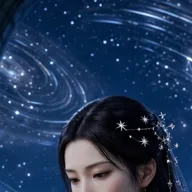
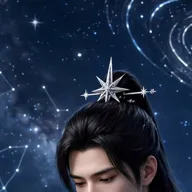
V6.1 星罗改男性版定妆候选 v2（v1 女性版作废）：立绘/头像/海报占位同步替换，规格注明男性

diff --git a/docs/v6.1-guides.md b/docs/v6.1-guides.md
@@ -12,7 +12,7 @@ V6.1 是一次引路人体系的整体革新：六位引路人各有明确专长
 | 夕瑶 | xiyao→xingling | 姻缘专家 | 姻缘推演 | 东方 日支（配偶宫）·日主 + 西方 金星·月亮 |
 | 焱绒 | diyan | 财富专家 | 财富推演 | 东方 日主·用神 + 西方 木星·太阳 |
 | 絮羽 | muse | 卡罗大师 | 塔罗推演（站内已有完整塔罗系统 tools2/tarot.js，自称「卡罗/塔罗大师」） | 东方 月柱·流年 + 西方 月亮·水星（直觉与讯息），报告中西方在先 |
-| 星罗 | xingluo | 占星师（新增） | 西方占星推演 | 西方 太阳·上升·月亮 在先，东方 年柱·当前大运 为辅 |
+| 星罗 | xingluo | 占星师（新增，男性） | 西方占星推演 | 西方 太阳·上升·月亮 在先，东方 年柱·当前大运 为辅 |
 
 ## 形象与主题待办（须先出定妆图、用户验脸确认后才做整版）
 
@@ -29,6 +29,6 @@ V6.1 是一次引路人体系的整体革新：六位引路人各有明确专长
 ## 落地顺序
 
 1. 本规格 + 视角层（guide-perspective）+ 漏斗文案/调色板（entry-personas、funnel.html）——已在本分支完成，test:unit 全链通过。
-2. 定妆图四张（夕瑶微调 / 焱绒重做 / 絮羽重做 / 星罗新角）候选版已出（docs/v6.1-candidates/）→ 待用户验脸；星罗候选图已先行接入分支作立绘/头像占位。
+2. 定妆图四张（夕瑶微调 / 焱绒重做 / 絮羽重做 / 星罗新角）候选版已出（docs/v6.1-candidates/）→ 待用户验脸；星罗候选图已先行接入分支作立绘/头像占位；v1 女性版已被用户否，v2 男性版为现行候选。
 3. 按定妆换素材（立绘/眨眼/说话/头像/四段视频）、offline-assets 注册、双站同步部署。
 4. 专长深化：各专家在问问对话与工具页的默认引导（事业→career、财富→wealth、姻缘→relation/合盘、塔罗→tarot、占星→horoscope/western）。
